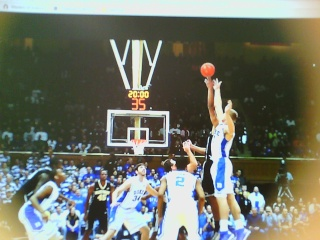
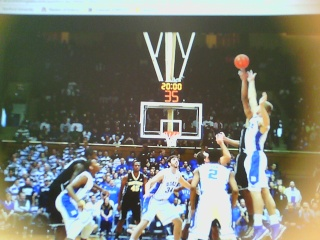
Fixing experiment. There is still a bug in that not all topics show up with 'getkeywordstatement'

diff --git a/chatterbot/input/input_adapter.py b/chatterbot/input/input_adapter.py
@@ -178,6 +178,8 @@ class InputAdapter(Adapter):
 		"""
 		Return an existing statement object (if one exists).
 		"""
+		self.cycle += 1
+
 		input_statement = self.process_input(*args, **kwargs)
 		self.logger.info('Received input statement: {}'.format(input_statement.text))
 
@@ -190,7 +192,7 @@ class InputAdapter(Adapter):
 			if self.chatbot.commu_move:
 				self.chatbot.commu.move(self.chatbot.commu.AXIS['LATERAL_BODY'], 100, 100)
 				self.chatbot.commu.move(self.chatbot.commu.AXIS['TURN_HEAD'], 100, 50)
-				self.chatbot.commu.move(self.chatbot.commu.AXIS['PITCH_HEAD'], 0, 50)
+				self.chatbot.commu.move(self.chatbot.commu.AXIS['PITCH_HEAD'], 0, 150)
 
 				picturecommandsendtime = time.time()
 				self.chatbot.commu.takepicture()

diff --git a/chatterbot/logic/imgcaption_adapter.py b/chatterbot/logic/imgcaption_adapter.py
@@ -155,7 +155,10 @@ class ImageCaptioningAdapter(BestMatch):
 
 	def getkeywordstatement(self, keyword):
 		input_statement = Statement(keyword)
+		#print(keyword)
 		closest_match = self.get(input_statement)
+		#closest_match = input_statement
+		#print(closest_match)
 		response_list = self.chatbot.storage.filter(
 			in_response_to__contains=closest_match.text
 		)

diff --git a/TatoraTalk.py b/TatoraTalk.py
@@ -39,7 +39,7 @@ chatbot = ChatBot(
 		"chatterbot.logic.MitsukuChatBotAdapter",
 		"chatterbot.logic.TimeLogicAdapter",
 		"chatterbot.logic.DateLogicAdapter",
-		"chatterbot.logic.MathematicalEvaluation",
+		#"chatterbot.logic.MathematicalEvaluation",
 		"chatterbot.logic.ImageCaptioningAdapter",
 		{
 			"import_path": "chatterbot.logic.NewConversationStarter",

diff --git a/chatterbot/logic/best_match.py b/chatterbot/logic/best_match.py
@@ -18,6 +18,7 @@ class BestMatch(LogicAdapter):
         Returns the closest matching statement from the list.
         """
         statement_list = self.chatbot.storage.get_response_statements()
+        print(statement_list)
 
         if not statement_list:
             if self.chatbot.storage.count():

diff --git a/chatterbot/trainers.py b/chatterbot/trainers.py
@@ -129,6 +129,7 @@ class ConvoStarterTrainer(Trainer):
 						continue
 					for topic in topics:
 						convostartreplaced = convostart.replace('[]',topic)
+						#print(topic+": "+convostartreplaced)
 						trainer.train([topic, convostartreplaced])
 
 
